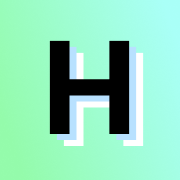
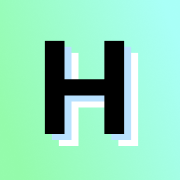
dark mode

diff --git a/src/components/core/AppHeader.vue b/src/components/core/AppHeader.vue
@@ -16,14 +16,27 @@ watch(
 </script>
 
 <template>
-    <header class="border-pale-blue mx-auto w-full max-w-7xl border-b px-5 py-4 lg:pt-8 lg:pb-6" style="box-shadow: 0 4px 5px -5px #bebebe">
+    <header class="border-pale-blue dark:border-pale-blue/60 mx-auto w-full max-w-7xl border-b px-5 py-4 lg:pt-8 lg:pb-6" style="box-shadow: 0 4px 5px -5px #bebebe">
         <div class="flex items-center justify-end">
             <RouterLink to="/" class="mr-auto flex items-center gap-3 font-mono font-bold lg:pt-2">
-                <svg xmlns="http://www.w3.org/2000/svg" width="40" height="40" viewBox="0 0 180 180" fill="none">
+                <svg class="dark:hidden" xmlns="http://www.w3.org/2000/svg" width="40" height="40" viewBox="0 0 180 180" fill="none">
                     <g clip-path="url(#a)"><path fill="url(#b)" d="M0 0h180v180H0V0Z" /></g>
-                    <path fill="#fff" d="M63.875 146V52.875H83.5v38.438h39.938V52.874h19.687V146h-19.687v-38.5H83.5V146H63.875Z" />
-                    <path fill="#B8E1FF" d="M56.875 140V46.875H76.5v38.438h39.938V46.874h19.687V140h-19.687v-38.5H76.5V140H56.875Z" />
-                    <path fill="#000" d="M49.875 134V40.875H69.5v38.438h39.938V40.874h19.687V134h-19.687V95.5H69.5V134H49.875Z" />
+                    <path fill="#fff" d="M58.875 146V52.875H78.5v38.438h39.938V52.874h19.687V146h-19.687v-38.5H78.5V146H58.875Z" />
+                    <path fill="#B8E1FF" d="M51.875 140V46.875H71.5v38.438h39.938V46.874h19.687V140h-19.687v-38.5H71.5V140H51.875Z" />
+                    <path fill="#000" d="M44.875 134V40.875H64.5v38.438h39.938V40.874h19.687V134h-19.687V95.5H64.5V134H44.875Z" />
+                    <defs>
+                        <linearGradient id="b" x1="180" x2="0" y1="46.962" y2="113.416" gradientUnits="userSpaceOnUse">
+                            <stop stop-color="#A9FFF7" />
+                            <stop offset="1" stop-color="#94FBAB" />
+                        </linearGradient>
+                        <clipPath id="a"><path fill="#fff" d="M0 0h180v180H0z" /></clipPath>
+                    </defs>
+                </svg>
+                <svg class="hidden bg-gray-100 dark:block" xmlns="http://www.w3.org/2000/svg" width="40" height="40" viewBox="0 0 180 180" fill="none">
+                    <g clip-path="url(#a)"><path fill="url(#b)" d="M0 0h180v180H0V0Z" /></g>
+                    <path fill="#243c5a" d="M58.875 146V52.875H78.5v38.438h39.938V52.874h19.687V146h-19.687v-38.5H78.5V146H58.875Z" />
+                    <path fill="#82aba1" d="M51.875 140V46.875H71.5v38.438h39.938V46.874h19.687V140h-19.687v-38.5H71.5V140H51.875Z" />
+                    <path fill="#000" d="M44.875 134V40.875H64.5v38.438h39.938V40.874h19.687V134h-19.687V95.5H64.5V134H44.875Z" />
                     <defs>
                         <linearGradient id="b" x1="180" x2="0" y1="46.962" y2="113.416" gradientUnits="userSpaceOnUse">
                             <stop stop-color="#A9FFF7" />
@@ -37,20 +50,21 @@ watch(
 
             <button type="button" class="z-50 -mr-3 cursor-pointer p-3 md:hidden" aria-label="Toggle navigation" @click="showNav = !showNav">
                 <div class="relative h-4 w-[22px]">
-                    <div :class="['absolute h-[2px] w-full rounded bg-black duration-150 ease-in-out hover:bg-blue-500', showNav ? 'top-[18px] left-1/2 !w-0' : 'top-0 left-0']"></div>
-                    <div :class="['absolute top-[7px] left-0 h-[2px] w-full rounded bg-black duration-150 ease-in-out hover:bg-blue-500', showNav ? 'rotate-45' : 'rotate-0']"></div>
-                    <div :class="['absolute top-[7px] left-0 h-[2px] w-full rounded bg-black duration-150 ease-in-out hover:bg-blue-500', showNav ? '-rotate-45' : 'rotate-0']"></div>
-                    <div :class="['absolute h-[2px] w-full rounded bg-black duration-150 ease-in-out hover:bg-blue-500', showNav ? 'top-[18px] left-1/2 !w-0' : 'top-[14px] left-0']"></div>
+                    <div :class="['absolute h-[2px] w-full rounded bg-black duration-150 ease-in-out hover:bg-blue-500 dark:bg-white', showNav ? 'top-[18px] left-1/2 !w-0' : 'top-0 left-0']"></div>
+                    <div :class="['absolute top-[7px] left-0 h-[2px] w-full rounded bg-black duration-150 ease-in-out hover:bg-blue-500 dark:bg-white', showNav ? 'rotate-45' : 'rotate-0']"></div>
+                    <div :class="['absolute top-[7px] left-0 h-[2px] w-full rounded bg-black duration-150 ease-in-out hover:bg-blue-500 dark:bg-white', showNav ? '-rotate-45' : 'rotate-0']"></div>
+                    <div
+                        :class="['absolute h-[2px] w-full rounded bg-black duration-150 ease-in-out hover:bg-blue-500 dark:bg-white', showNav ? 'top-[18px] left-1/2 !w-0' : 'top-[14px] left-0']"
+                    ></div>
                 </div>
             </button>
 
-            <nav :class="{ 'max-md:hidden': !showNav }" class="z-40 flex gap-2 font-mono max-md:fixed max-md:inset-0 max-md:flex-col max-md:bg-white max-md:pt-16">
+            <nav :class="{ 'max-md:hidden': !showNav, 'dark:bg-gray-900': showNav }" class="z-40 flex gap-2 font-mono max-md:fixed max-md:inset-0 max-md:flex-col max-md:bg-white max-md:pt-16">
                 <AppHeaderLink to="/arbitrage">Arbitrage</AppHeaderLink>
                 <AppHeaderLink to="/bonus-bet">Bonus bet</AppHeaderLink>
                 <AppHeaderLink to="/risk-free">Risk-free</AppHeaderLink>
                 <AppHeaderLink to="/devig">Devig</AppHeaderLink>
             </nav>
         </div>
-        <!-- <hr class="border-jet mt-6" /> -->
     </header>
 </template>

diff --git a/src/pages/PageArbitrage.vue b/src/pages/PageArbitrage.vue
@@ -166,17 +166,15 @@ onMounted(() => {
                 <ArbitrageResults :results="results" class="md:flex-1" />
             </div>
         </section>
-        <section class="mx-auto mt-10 max-w-7xl px-5">
-            <h5 class="border-jet font-space text-jet mb-3 border-b pb-2 font-mono font-bold">How to use</h5>
-            <div class="space-y-3">
-                <p>Use the above calculator to find the optimal amount to place for an arbitrage or hedge.</p>
-                <ul class="marker:text-slate list-disc space-y-2 pl-4 text-sm marker:text-xs">
-                    <li>Enter your first bet amount and odds as <em>Stake A</em> and <em>Odds A</em></li>
-                    <li>Enter the odds of your second or hedge bet as <em>Odds B</em></li>
-                    <li>Enter additional odds as <em>Odds C</em> for a three-way arb</li>
-                </ul>
-                <p>Plus signs are optional in odds fields.</p>
-            </div>
+        <section class="prose mx-auto mt-10 max-w-7xl px-5">
+            <h2>How to use</h2>
+            <p>Use the abritrage calculator to find the optimal amount to place for an arbitrage or hedge.</p>
+            <ul>
+                <li>Enter your first bet amount and odds as <em>Stake A</em> and <em>Odds A</em></li>
+                <li>Enter the odds of your second or hedge bet as <em>Odds B</em></li>
+                <li>Enter additional odds as <em>Odds C</em> for a three-way arb</li>
+            </ul>
+            <p>Plus signs are optional in odds fields.</p>
         </section>
     </div>
 </template>

diff --git a/src/pages/PageHome.vue b/src/pages/PageHome.vue
@@ -4,16 +4,17 @@ import LandingLink from '@/components/LandingLink.vue';
 
 <template>
     <div>
-        <section class="relative mx-auto w-full max-w-4xl px-5 pb-8 pt-12 sm:pt-16">
+        <section class="relative mx-auto w-full max-w-4xl px-5 pt-12 pb-8 sm:pt-16">
             <div class="grid gap-4 sm:grid-cols-2 sm:gap-8">
                 <LandingLink to="/arbitrage">
-                    <p>get bet size for
-						<div class="flex items-end gap-x-2 gap-y-1 sm:max-md:flex-col sm:max-md:items-center">
-							<strong class="font-mono text-2xl sm:text-3xl">Arbitrage</strong>
-							or
-							<strong class="font-mono text-2xl sm:text-3xl">Hedge</strong>
-						</div>
-					</p>
+                    <p>
+                        get bet size for
+                        <span class="flex items-end gap-x-2 gap-y-1 sm:max-md:flex-col sm:max-md:items-center">
+                            <strong class="font-mono text-2xl sm:text-3xl">Arbitrage</strong>
+                            or
+                            <strong class="font-mono text-2xl sm:text-3xl">Hedge</strong>
+                        </span>
+                    </p>
                 </LandingLink>
                 <LandingLink to="/bonus-bet">
                     <p>convert a <strong class="block font-mono text-2xl sm:text-3xl">Bonus Bet</strong></p>

diff --git a/src/components/RadioField.vue b/src/components/RadioField.vue
@@ -17,10 +17,13 @@ const props = defineProps({
     <label :for="id" class="group inline-flex cursor-pointer items-start gap-2">
         <div class="relative">
             <input type="radio" :id="id" v-model="model" :value="value" class="peer pointer-events-none absolute inset-1 z-20 opacity-0 lg:inset-1.5" :required="required" />
-            <div class="peer-checked:border-slate flex h-4 w-4 items-center justify-center rounded-full border-2 border-slate-300 transition-colors lg:h-5 lg:w-5" type="button">
+            <div
+                class="peer-checked:border-slate dark:peer-checked:border-ice-blue flex h-4 w-4 items-center justify-center rounded-full border-2 border-slate-300 transition-colors lg:h-5 lg:w-5 dark:border-gray-400"
+                type="button"
+            >
                 <div
                     :class="{ 'opacity-100': model == value, 'opacity-0 group-hover:opacity-60': model !== value }"
-                    class="bg-slate h-[7px] w-[7px] rounded-full opacity-0 transition-opacity lg:h-[10px] lg:w-[10px]"
+                    class="bg-slate dark:bg-ice-blue h-[7px] w-[7px] rounded-full opacity-0 transition-opacity lg:h-[10px] lg:w-[10px]"
                 ></div>
             </div>
         </div>

diff --git a/src/components/SubmitButton.vue b/src/components/SubmitButton.vue
@@ -13,7 +13,7 @@ defineProps({
     <button
         type="submit"
         :class="{ 'from-pale-blue to-ice-blue pointer-events-none from-10%': isSubmitting }"
-        class="from-pale-blue to-ice-blue text-jet relative cursor-pointer bg-linear-65 from-40% px-8 py-3 font-mono tracking-wide shadow transition-all duration-100 hover:from-10% active:translate-x-[1px] active:translate-y-[1px] active:shadow-none disabled:translate-none disabled:cursor-not-allowed disabled:from-[#CFDDE8] disabled:to-[#C4E3E0] disabled:text-gray-500 disabled:shadow"
+        class="from-pale-blue to-ice-blue text-jet relative cursor-pointer bg-linear-65 from-40% px-8 py-3 font-mono tracking-wide shadow transition-all duration-100 hover:from-10% active:translate-x-[1px] active:translate-y-[1px] active:shadow-none disabled:translate-none disabled:cursor-not-allowed disabled:from-[#CFDDE8] disabled:to-[#C4E3E0] disabled:text-gray-500 disabled:shadow dark:disabled:from-gray-400 dark:disabled:to-gray-400 dark:disabled:text-gray-700"
         :style="{ minWidth: '170px' }"
     >
         <LoadingSpinner v-if="isSubmitting" size="24" class="text-jet absolute inset-0 flex items-center justify-center" />

diff --git a/src/components/InputField.vue b/src/components/InputField.vue
@@ -21,9 +21,9 @@ const props = defineProps({
             :type="type"
             v-model="model"
             :class="{ 'border-red': error, 'pr-12': addon }"
-            class="text-jet placeholder:text-slate disabled:border-gray/50 disabled:bg-gray/20 border-jet/30 focus:border-jet h-11 w-full border bg-white px-4 py-3 text-base leading-[1.5] transition-colors duration-100 outline-none focus:shadow-sm"
+            class="text-jet placeholder:text-slate disabled:border-gray/50 disabled:bg-gray/20 border-jet/30 focus:border-jet h-11 w-full border bg-white px-4 py-3 text-base leading-[1.5] transition-colors duration-100 outline-none focus:shadow-sm dark:border-gray-400 dark:bg-gray-600 dark:text-white dark:focus:border-white"
         />
-        <div v-if="addon" class="bg-pale-blue/50 absolute inset-y-[1px] right-[1px] flex w-10 items-center justify-center text-center text-sm font-semibold">
+        <div v-if="addon" class="bg-pale-blue/50 dark:bg-pale-blue dark:text-jet absolute inset-y-[1px] right-[1px] flex w-10 items-center justify-center text-center text-sm font-semibold">
             {{ addon }}
         </div>
     </div>

diff --git a/src/components/ui/AppHeaderLink.vue b/src/components/ui/AppHeaderLink.vue
@@ -14,8 +14,13 @@ const isActive = computed(() => route.path === props.to);
 </script>
 
 <template>
-    <RouterLink :to="to" :class="{ 'hover:bg-ice-blue/50': !isActive }" class="relative bg-linear-65 px-4 py-3 transition-all duration-100">
-        <span class="text-jet relative z-10"><slot></slot></span>
-        <div :class="{ 'opacity-100 shadow': isActive }" class="from-green to-ice-blue pointer-events-none absolute inset-0 bg-linear-65 opacity-0 transition-all duration-100"></div>
+    <RouterLink :to="to" :class="{ 'hover:bg-ice-blue/20': !isActive }" class="relative px-4 py-3 transition-all duration-100">
+        <span :class="isActive ? 'dark:text-jet' : 'dark:text-white/90'" class="text-jet relative z-10">
+            <slot></slot>
+        </span>
+        <div
+            :class="{ 'opacity-100 shadow': isActive }"
+            class="from-green to-ice-blue dark:from-ice-blue dark:to-pale-blue pointer-events-none absolute inset-0 bg-linear-65 opacity-0 transition-all duration-100"
+        ></div>
     </RouterLink>
 </template>

diff --git a/src/components/LandingLink.vue b/src/components/LandingLink.vue
@@ -1,6 +1,6 @@
 <template>
     <RouterLink
-        class="group border-space ring-pale-blue transition-scale linear-65 hover:from-green hover:to-ice-blue relative flex scale-100 items-center justify-center rounded border-3 bg-linear-65 from-white to-white px-4 py-8 text-center ring-2 ring-offset-2 duration-100 hover:scale-101 hover:ring-4 hover:ring-offset-0 sm:min-h-[200px] sm:py-4 md:py-16"
+        class="group border-space ring-pale-blue transition-scale linear-65 hover:from-green hover:to-ice-blue dark:hover:from-ice-blue dark:hover:to-pale-blue dark:hover:text-jet dark:hover:ring-ice-blue relative flex scale-100 items-center justify-center rounded border-3 bg-linear-65 from-white to-white px-4 py-8 text-center ring-2 ring-offset-2 duration-100 hover:scale-101 hover:ring-4 hover:ring-offset-0 sm:min-h-[200px] sm:py-4 md:py-16 dark:border-gray-500 dark:from-gray-700 dark:to-gray-700 dark:ring-white/80 dark:ring-offset-gray-900 dark:hover:ring-2"
     >
         <div class="z-2 flex items-center justify-center">
             <slot></slot>

diff --git a/src/components/core/AppFooter.vue b/src/components/core/AppFooter.vue
@@ -3,8 +3,8 @@ import AppFooterLink from '@/components/ui/AppFooterLink.vue';
 </script>
 <template>
     <footer class="mx-auto mt-auto w-full max-w-7xl px-5 pt-20 pb-10">
-        <div class="border-jet relative mx-auto flex flex-wrap justify-center gap-x-6 gap-y-2 border-t pt-3 font-mono text-sm sm:justify-end">
-            <div class="bg-pale-blue absolute inset-x-0 top-[2px] h-[1px]"></div>
+        <div class="border-jet relative mx-auto flex flex-wrap justify-center gap-x-6 gap-y-2 border-t pt-3 font-mono text-sm sm:justify-end dark:border-gray-400 dark:text-white">
+            <div class="bg-pale-blue dark:bg-pale-blue/60 absolute inset-x-0 top-[2px] h-[1px]"></div>
             <AppFooterLink href="https://ko-fi.com/sssorc" target="_blank">support</AppFooterLink>
             <AppFooterLink href="/knowledge" target="_blank">knowledge</AppFooterLink>
             <AppFooterLink href="https://chromewebstore.google.com/detail/cno-parlay-buddy/hcpaaidgaenjoobhlbacpfnolcebefef?hl=en-US&utm_source=ext_sidebar" target="_blank"

diff --git a/src/assets/css/main.css b/src/assets/css/main.css
@@ -1,5 +1,7 @@
 @import 'tailwindcss';
 
+@custom-variant dark (&:where(.dark, .dark *));
+
 @theme {
     --font-mono: 'Space Mono', monospace;
     --font-numbers: 'JetBrains Mono', monospace;
@@ -21,5 +23,27 @@ html {
 }
 
 @layer components {
-    @import './components/prose.css';
+    .prose h1 {
+        @apply mb-4 text-3xl font-bold;
+    }
+
+    .prose h2 {
+        @apply border-jet text-jet mb-4 border-b pb-2 font-mono font-bold dark:border-gray-400 dark:text-white;
+    }
+
+    .prose h2:not(:first-child) {
+        @apply mt-6 lg:mt-8;
+    }
+
+    .prose ul {
+        @apply marker:text-slate dark:marker:text-pale-blue my-4 list-disc space-y-2 pl-4 marker:text-xs;
+    }
+
+    .prose a {
+        @apply decoration-pink hover:decoration-pale-blue dark:decoration-pale-blue dark:hover:decoration-green underline decoration-2 underline-offset-2 transition-colors duration-100;
+    }
+
+    .prose p {
+        @apply my-4 lg:my-6;
+    }
 }

diff --git a/src/components/ArbitrageResults.vue b/src/components/ArbitrageResults.vue
@@ -25,9 +25,9 @@ const totalStake = computed(() => {
 
 const backgroundColor = computed(() => {
     if (roi.value >= 0) {
-        return 'from-green/40 to-ice-blue/40';
+        return 'from-green/40 to-ice-blue/40 dark:from-ice-blue dark:to-pale-blue';
     } else {
-        return 'bg-pink/20';
+        return 'bg-pink/20 dark:bg-gray-300';
     }
 });
 
@@ -77,7 +77,7 @@ function formatOdds(odds) {
 
 <template>
     <div v-if="results" :class="results.oddsC ? 'max-w-[500px] md:min-w-[340px]' : 'max-w-[420px] md:min-w-[300px]'">
-        <div :class="borderColor" class="relative border font-mono shadow-md">
+        <div :class="borderColor" class="dark:text-jet relative border font-mono shadow-md">
             <div :class="backgroundColor" class="relative z-20 bg-linear-65 p-6">
                 <div class="flex flex-wrap items-start justify-between gap-6">
                     <div class="text-left">

diff --git a/src/components/ConversionResult.vue b/src/components/ConversionResult.vue
@@ -21,9 +21,9 @@ const totalStake = computed(() => {
 
 const backgroundColor = computed(() => {
     if (roi.value >= 70) {
-        return 'from-green/40 to-ice-blue/40';
+        return 'from-green/40 to-ice-blue/40 dark:from-ice-blue dark:to-pale-blue';
     } else {
-        return 'bg-pink/20';
+        return 'bg-pink/20 dark:bg-gray-300';
     }
 });
 
@@ -72,7 +72,7 @@ function formatOdds(odds) {
 
 <template>
     <div v-if="result" class="max-w-[420px] md:min-w-[300px]">
-        <div :class="borderColor" class="relative border font-mono shadow-md">
+        <div :class="borderColor" class="dark:text-jet relative border font-mono shadow-md">
             <div :class="backgroundColor" class="relative z-20 bg-linear-65 p-6">
                 <div class="flex flex-wrap items-start justify-between gap-6">
                     <div class="text-left">
